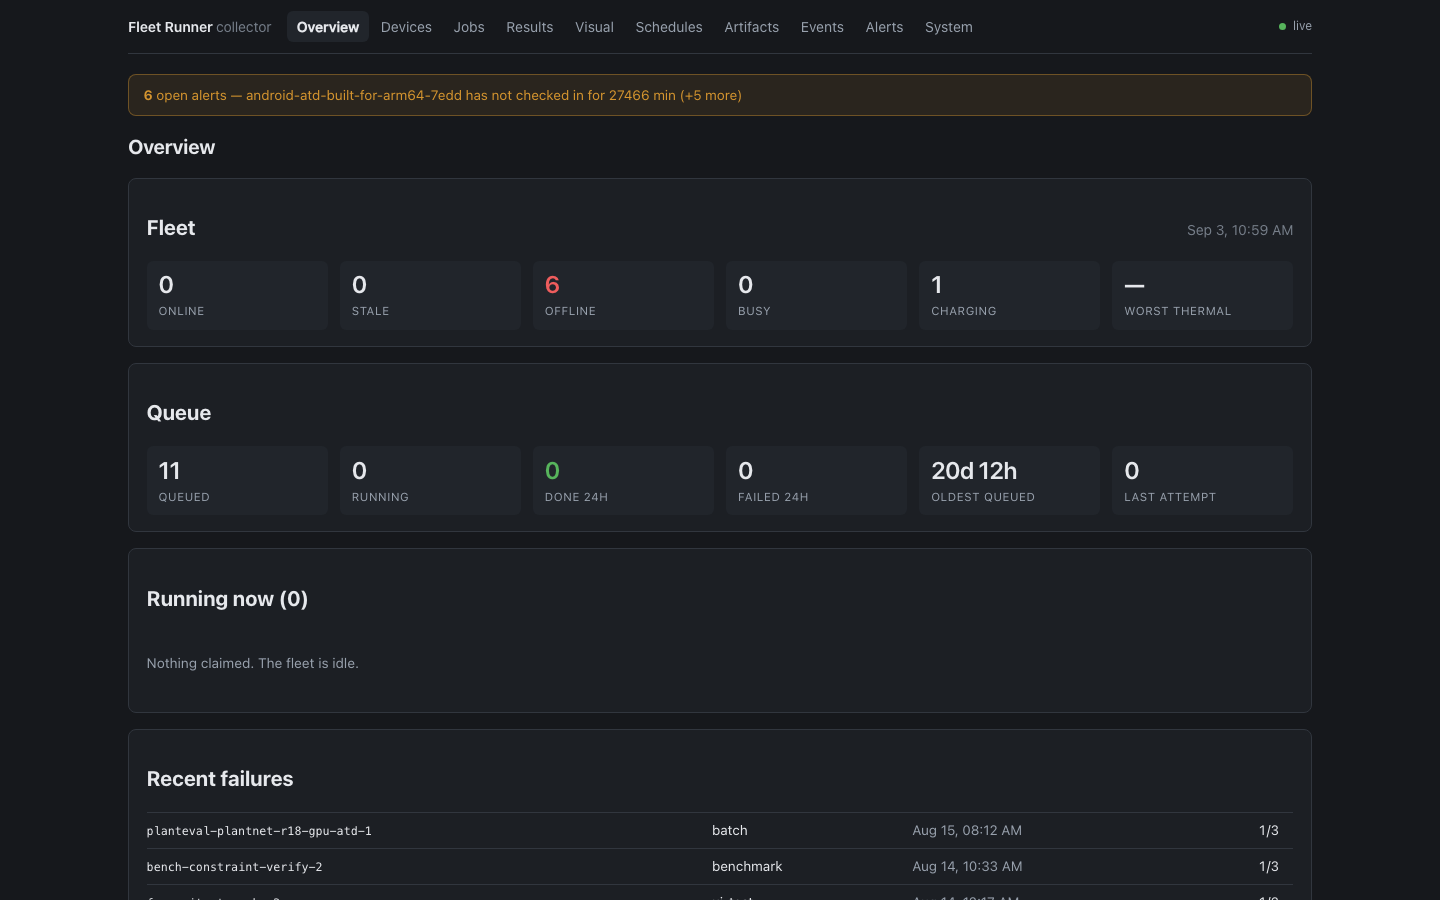
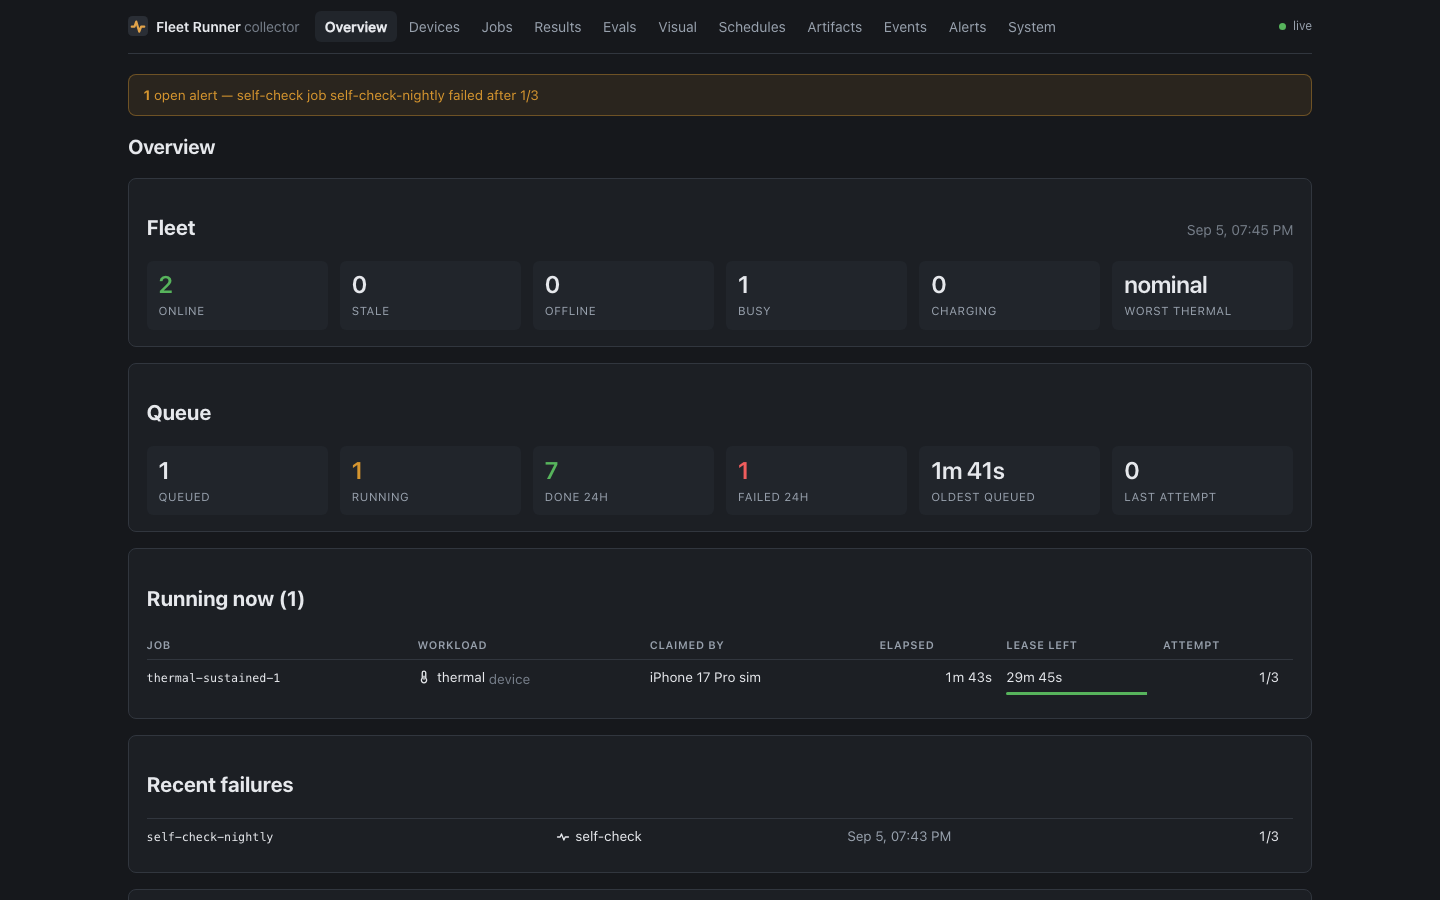
Dashboard screenshots of a fleet that is doing something
The overview and devices shots were captured while the laptop was on a
different network from the shelf, so they showed six devices offline, nothing
claimed, "the fleet is idle", a queue whose oldest job was twenty days old, and
a banner reporting six devices that had not checked in for 27,469 minutes.
Every word of that was true and the whole thing read as abandoned.

Retaken against a live two-device fleet: this laptop running the machine agent,
and an iPhone 17 Pro simulator running the real runner app, both registered,
named, and working. A fan-out benchmark ran on both, a thermal job is claimed
and counting its lease down in frame, and one job is queued behind it.

The failure in shot is real and worth leaving in. `self-check` reports
`agent_loaded` failed -- "launchd has no com.addisdev.fleet-runner-machine
loaded" -- because the agent was started by hand rather than by its LaunchAgent.
That is exactly the discrepancy the check exists to find, and a dashboard with
no failures in it has never been photographed doing its job.

jobs.png is replaced for consistency: the old one had more rows, but every one
of them said "19d ago", and the live states -- claimed with a lease bar, queued,
failed, done -- are what the page is actually for.

results.png is deliberately NOT retaken. It carries real llama.cpp numbers off
an SM-X930, 125.0 prefill and 47.4 decode tok/s on a Dimensity 9400, which is
stored history that a fresh database cannot have and is the image on the front
[…]

diff --git a/docs/brand.md b/docs/brand.md
@@ -70,13 +70,29 @@ blog post, a slide. Its labels are light, so without a ground it would be
 invisible on white. The mermaid source in the docs stays a mermaid block, which
 the site themes correctly on its own.
 
-!!! note "The dashboard screenshots were taken with the fleet offline"
+!!! note "Two of these were captured against different fleets, on purpose"
 
-    `overview.png` and `devices.png` show six devices offline and a queue whose
-    oldest job is twenty days old, because the laptop that captured them was on
-    a different network from the shelf. It is honest and it reads as abandoned.
-    Retake them from the fleet's own network. `results.png` and
-    `first-result.png` are unaffected — they show stored history.
+    `overview.png`, `devices.png` and `jobs.png` show a **live** two-device
+    fleet — a laptop and an iPhone simulator, both running the real agents,
+    with a thermal run in progress and a `self-check` correctly failing because
+    the agent was started by hand rather than by launchd. They were captured
+    against a throwaway collector with a fresh database, which is why the queue
+    is small and the history is minutes old.
+
+    They replaced a set showing six offline devices and a twenty-day-old queue,
+    captured while the laptop was on a different network from the shelf. That
+    set was honest and read as abandoned.
+
+    **`results.png` is deliberately not from that fleet.** It shows real
+    llama.cpp measurements from an SM-X930 — 125.0 prefill and 47.4 decode
+    tok/s on a Dimensity 9400 — which is stored history a fresh database cannot
+    have, and it is the front-page image. Do not regenerate it against a
+    throwaway collector.
+
+    To retake the live three, run a collector on a spare port with its own data
+    directory, point the machine runner and a simulator at it, enqueue a
+    fan-out benchmark and a `thermal` job, and capture `/dash`,
+    `/dash/devices` and `/dash/jobs` at 1440×900 with `colorScheme: "dark"`.
 
 ## Voice
 
